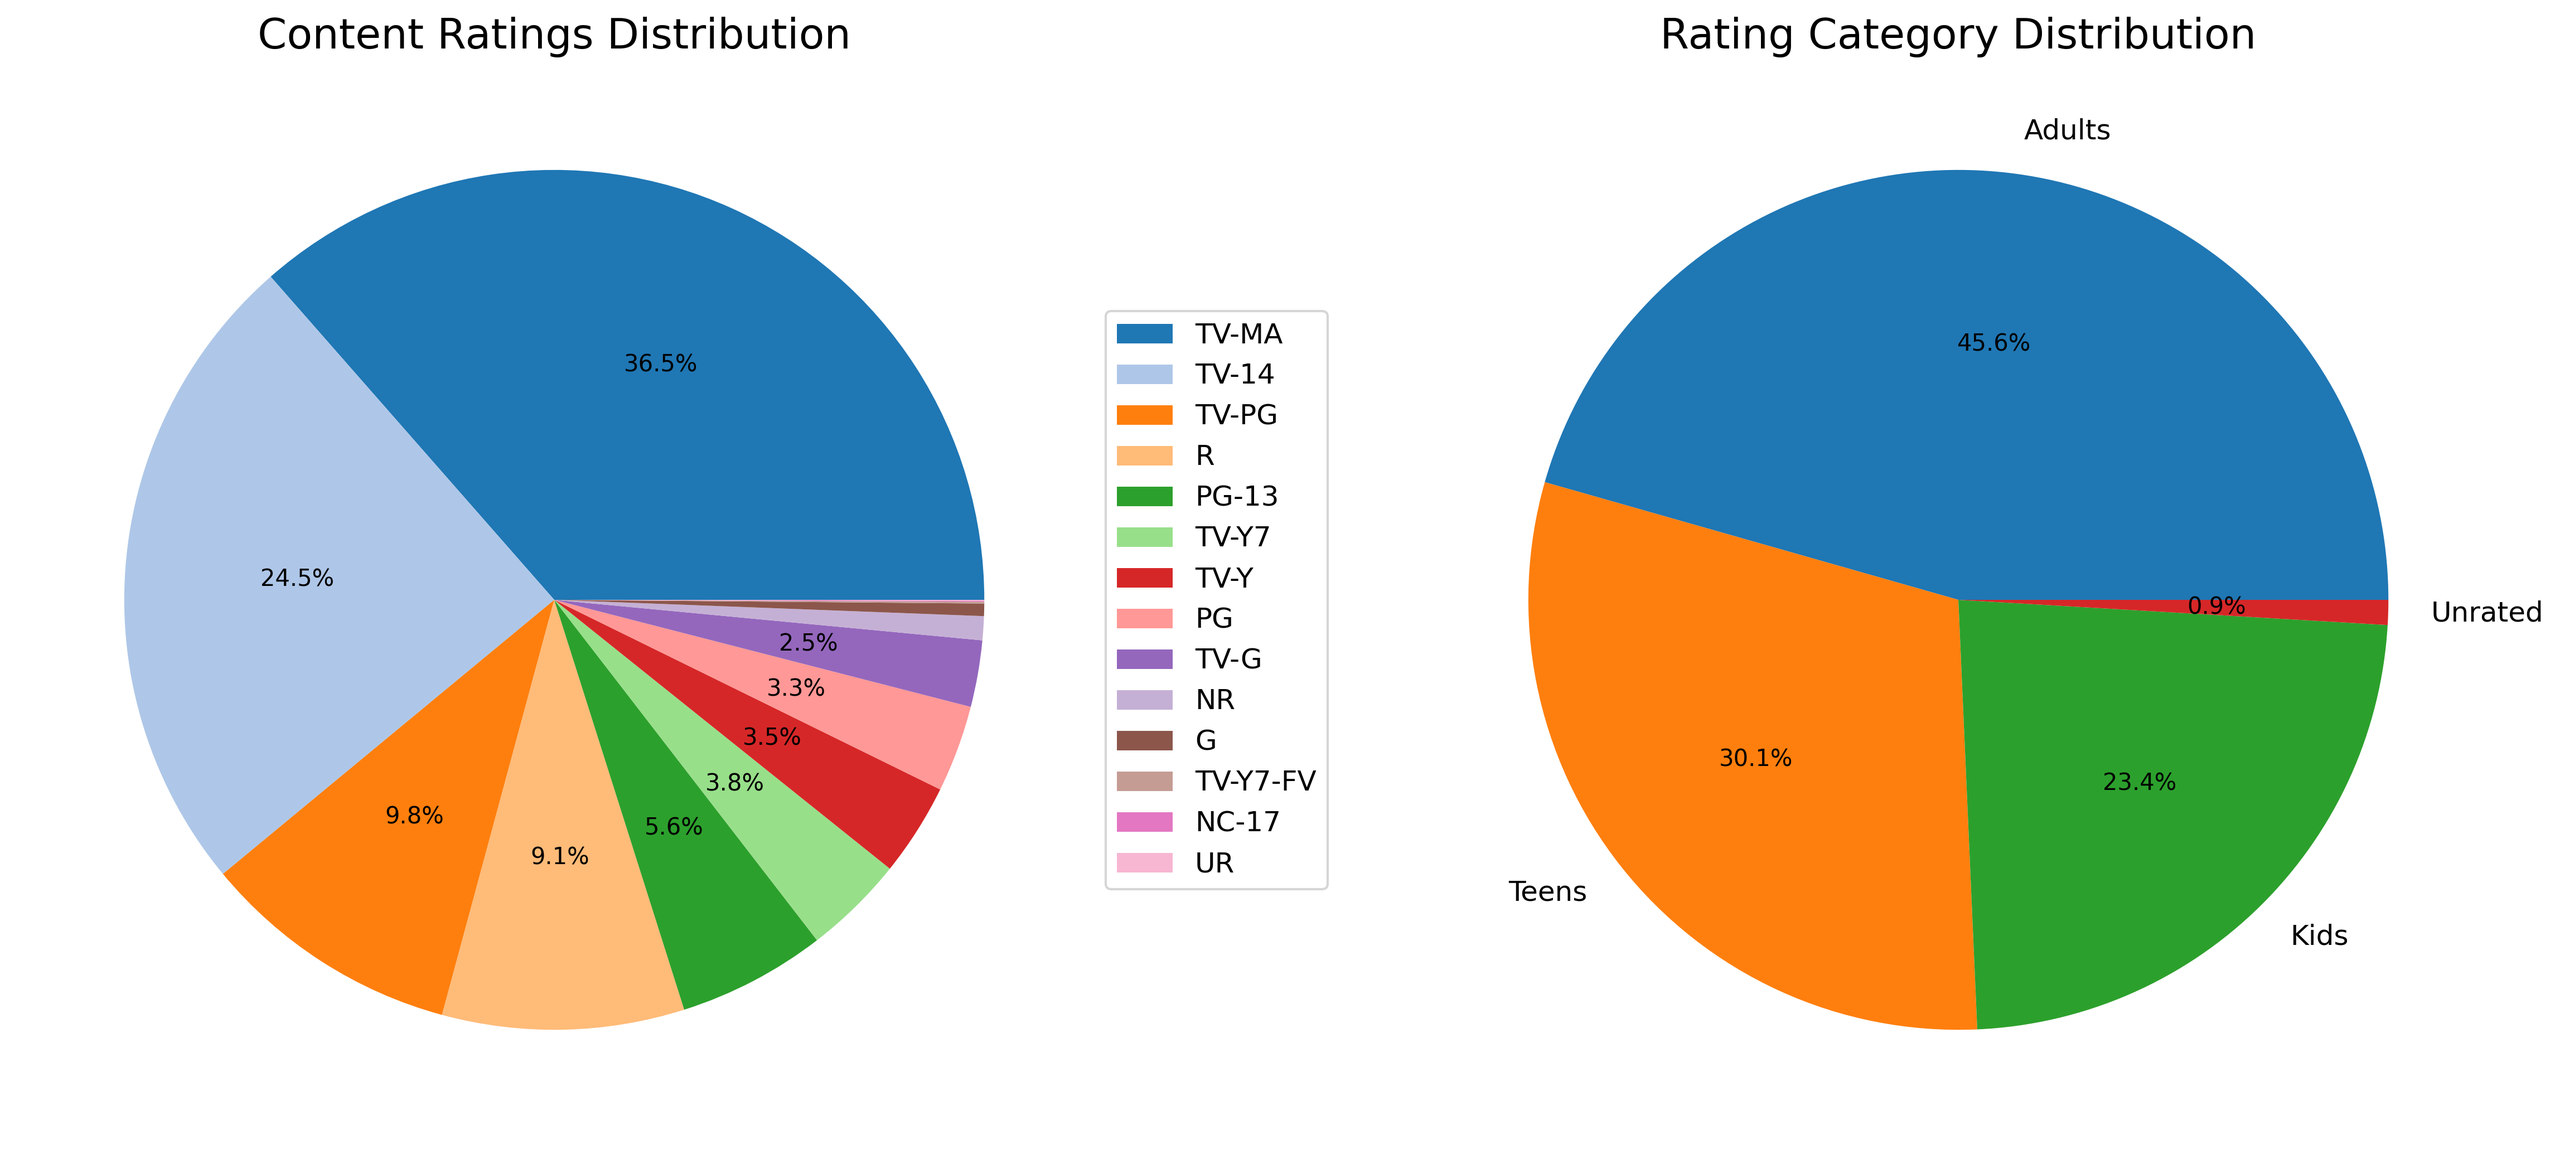
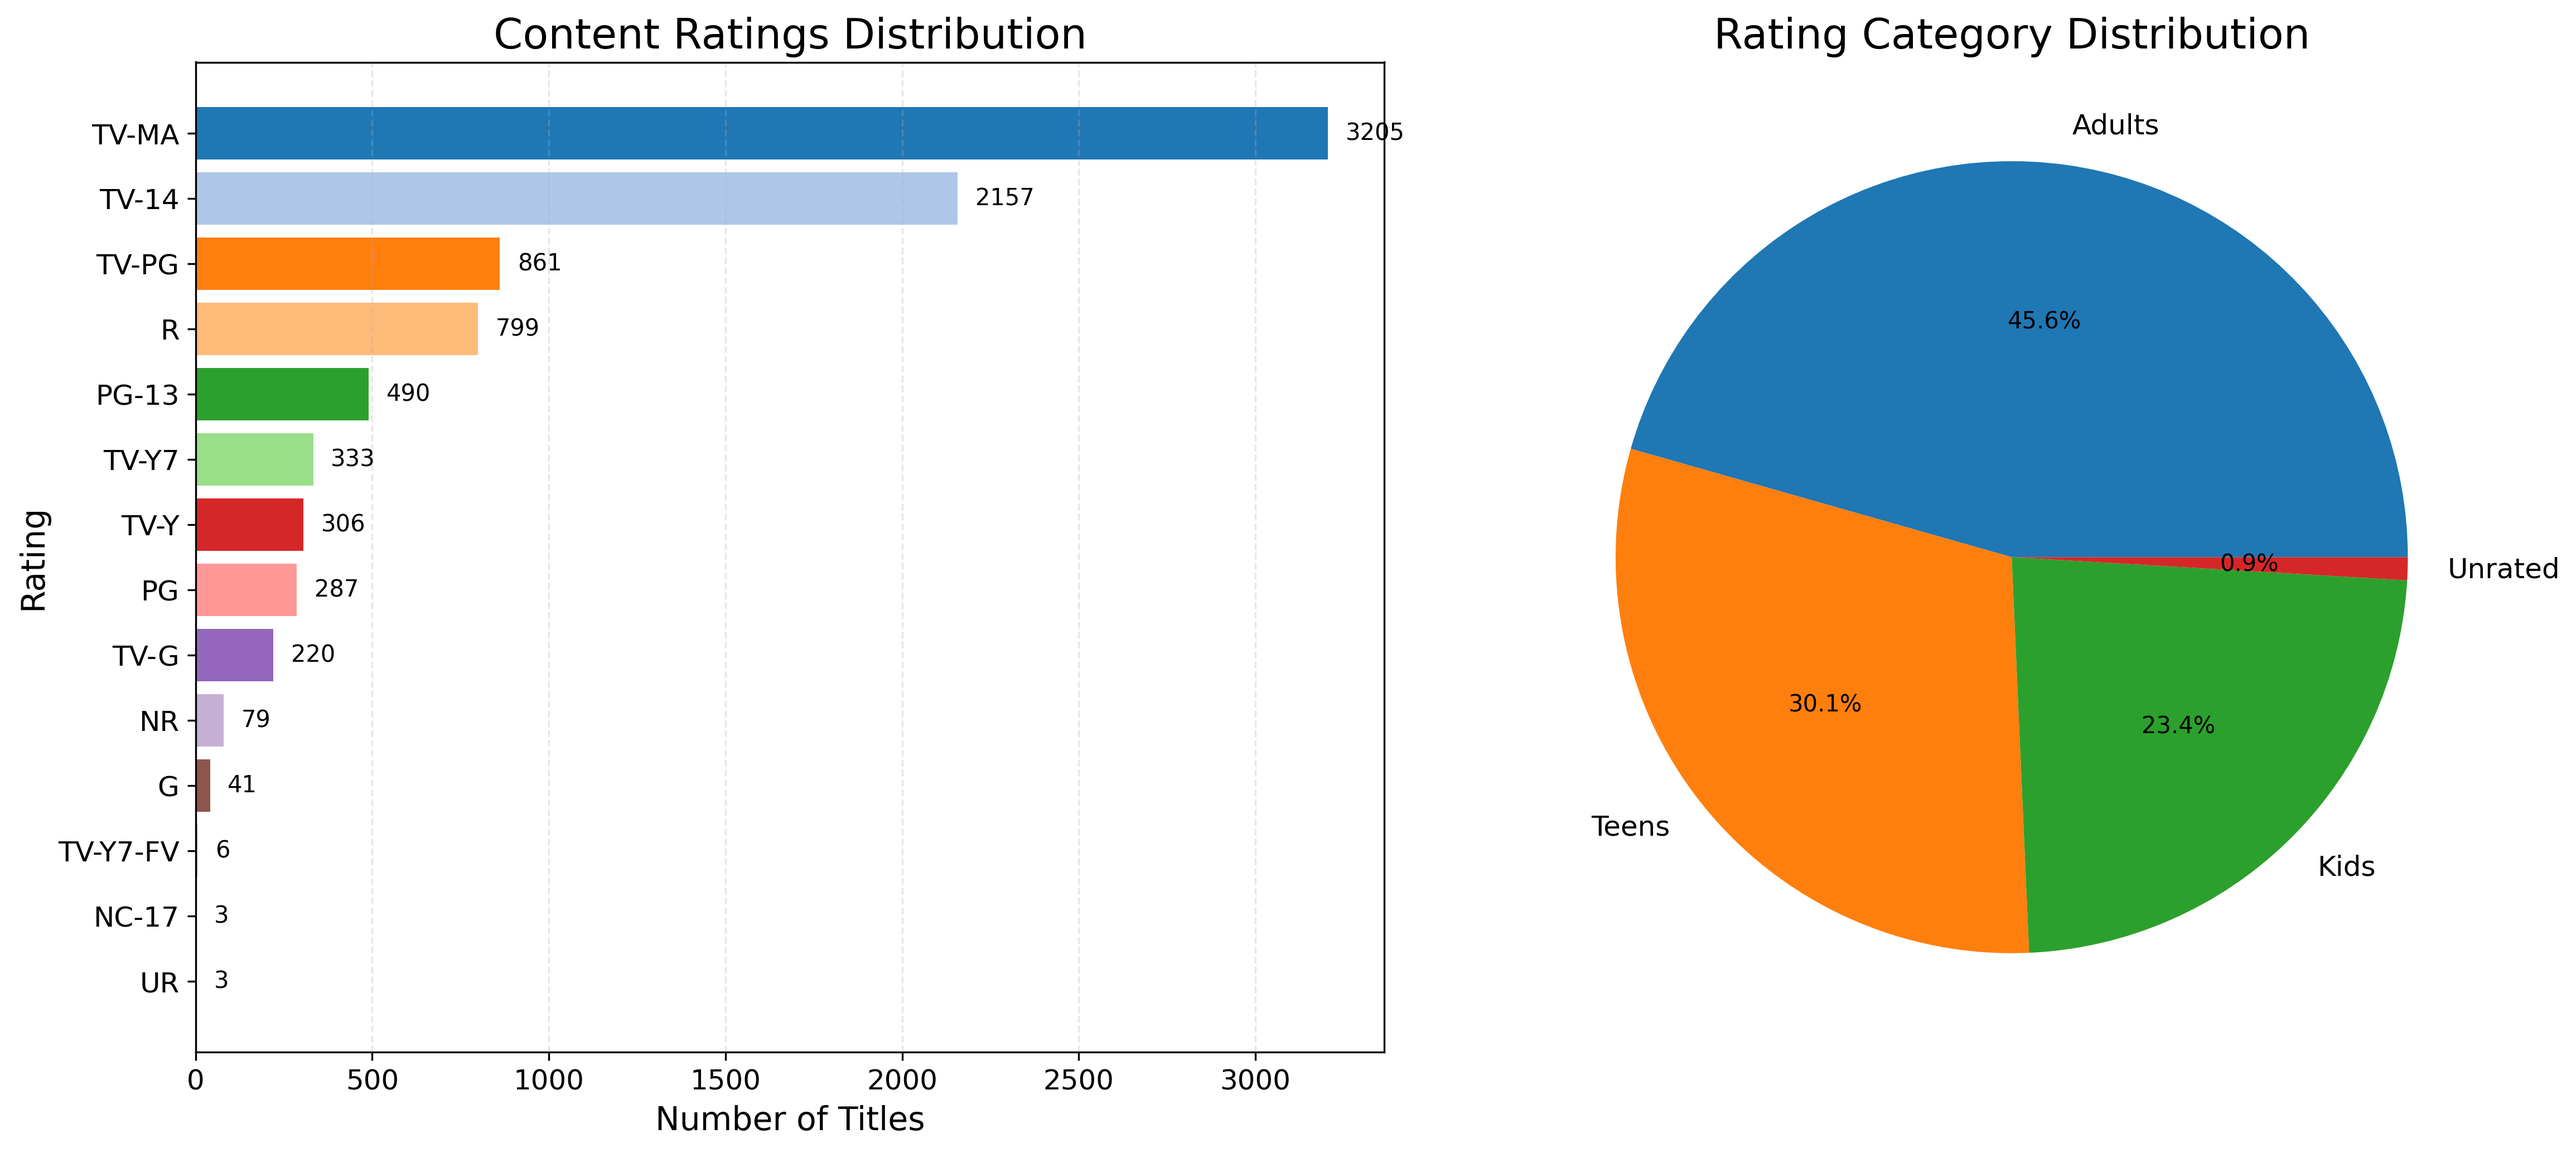
refactor: changed to use bar chart for ratings on detailed version

diff --git a/src/plot_figures.py b/src/plot_figures.py
@@ -113,15 +113,21 @@ def plot_rating_distribution(df):
     # Get ratings data
     ratings = analyze.analyze_ratings(df)
 
-    # Pie plot
-    ax[0].pie(
-        ratings.values,
-        labels=None,
-        autopct=lambda p: f"{p:.1f}%" if p > 2 else "",  # show % only if >2%
-        colors=plt.cm.tab20.colors[: len(ratings)],
+    # Horizontal bar plot
+    ax[0].barh(
+        range(len(ratings)), ratings.values, color=plt.cm.tab20.colors[: len(ratings)]
     )
-    ax[0].legend(ratings.index, loc="center left", bbox_to_anchor=(1, 0.5))
+    ax[0].set_yticks(range(len(ratings)))
+    ax[0].set_yticklabels(ratings.index)
+    ax[0].invert_yaxis()
+    ax[0].set_ylabel("Rating")
+    ax[0].set_xlabel("Number of Titles")
     ax[0].set_title("Content Ratings Distribution")
+    ax[0].grid(axis="x", alpha=0.3, linestyle="--")
+
+    # Add value labels on bars
+    for i, val in enumerate(ratings.values):
+        ax[0].text(val + 50, i, str(val), va="center")
 
     category_counts = df["rating_category"].value_counts()
 
